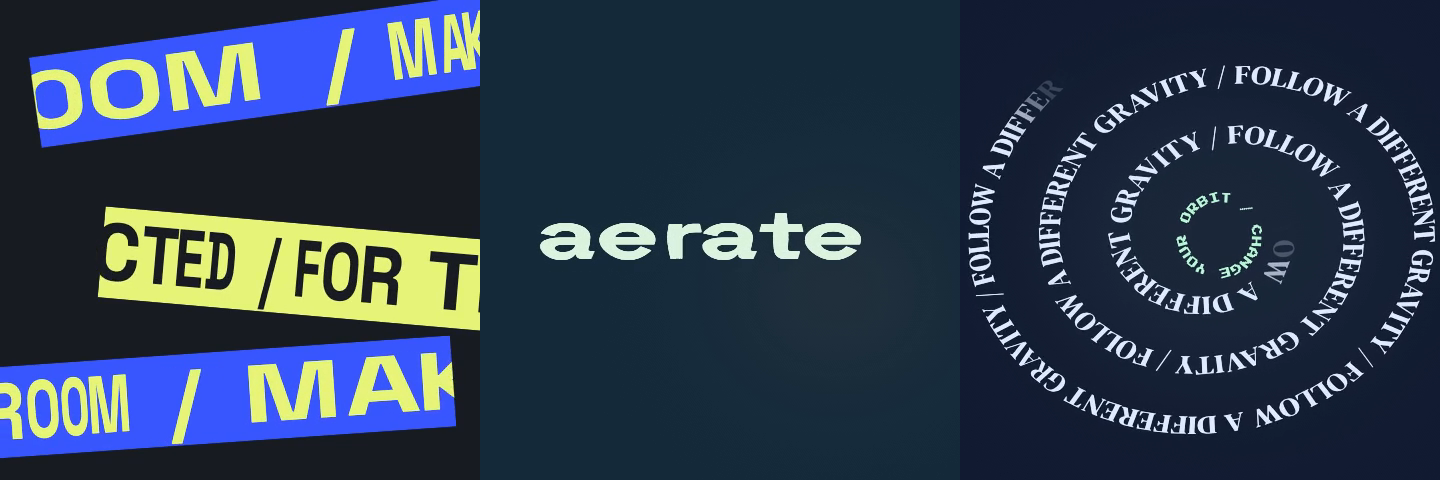
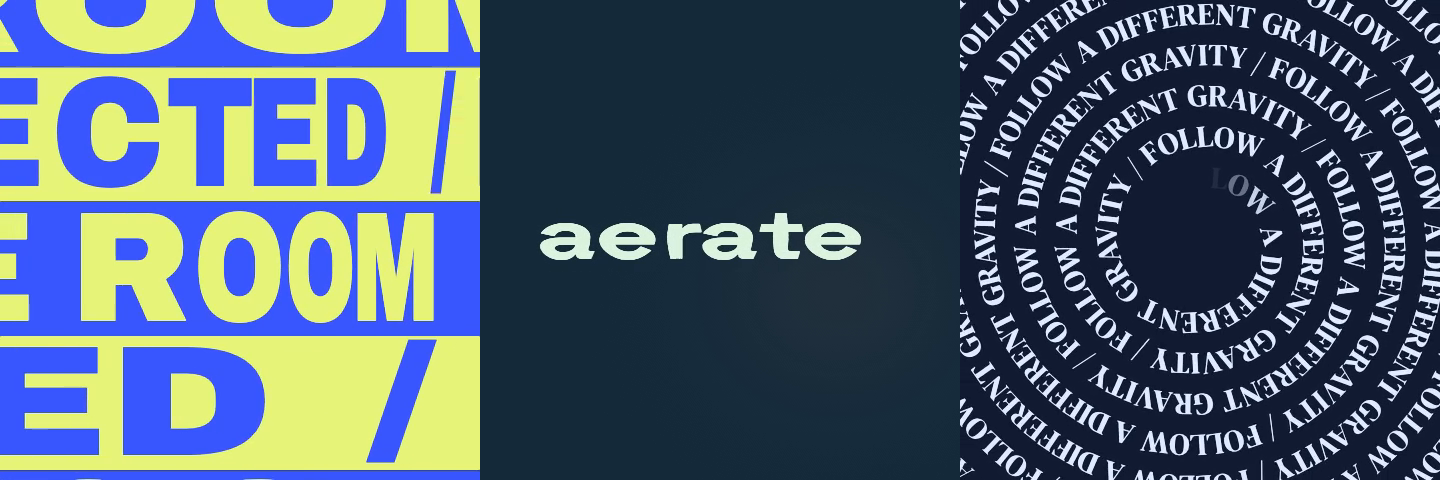
fix(templates): restore horizontal rows and a uniform spiral

diff --git a/templates/kinetic/stretch-row-repeater/scene.tsx b/templates/kinetic/stretch-row-repeater/scene.tsx
@@ -1,4 +1,4 @@
-// Three cut editorial ribbons, not an edge-to-edge typographic wallpaper.
+// Edge-to-edge horizontal rows with alternating direction and measured stretch.
 // Shared measured cell boundaries keep the traveling stretch monotonic.
 export default defineSpanScene({
   id: "stretch-row-repeater",
@@ -19,8 +19,8 @@ export default defineSpanScene({
     phase: numberVar(0),
   },
   computeds: {
-    rowHeight: computed.number(() => Math.min(vars.height * 0.19, vars.width * 0.27)),
-    fontSize: computed.number(() => computed.rowHeight * 0.88),
+    rowHeight: computed.number(() => Math.min(vars.height * 0.28, vars.width * 0.3)),
+    fontSize: computed.number(() => computed.rowHeight * 1.16),
     clock: computed.number(() => time.loop(Math.max(1000, Math.min(60000, vars.cycleMs)))),
     angle: computed.number(() => computed.clock * Math.PI * 4 + Math.max(-Math.PI * 2, Math.min(Math.PI * 2, vars.phase))),
     amplitude: computed.number(() => Math.max(0, Math.min(0.65, vars.stretch))),
@@ -28,33 +28,31 @@ export default defineSpanScene({
   render({ vars, computed }) {
     return <Scene width={vars.width} height={vars.height}>
       <Rect id="background" x={0} y={0} width={vars.width} height={vars.height} fill={vars.background} />
-      <Repeat items={collection.range(0, 3)} render={(row) => (
+      <Repeat items={collection.range(0, Math.ceil(vars.height / computed.rowHeight) + 1)} render={(row) => (
         <Group id={"ribbon-" + row}
-          x={vars.width * (row === 0 ? 0.06 : row === 1 ? 0.22 : -0.08)}
-          y={vars.height * (row === 0 ? 0.12 : row === 1 ? 0.43 : 0.77)}
-          width={vars.width * (row === 1 ? 0.92 : 1.02)} height={computed.rowHeight}
-          rotation={row === 0 ? -8 : row === 1 ? 5 : -4} pivotX={0} pivotY={0}
+          x={0} y={(row - 0.5) * computed.rowHeight}
+          width={vars.width} height={computed.rowHeight}
           clipLeft={0} clipRight={0} clipTop={0} clipBottom={0}>
-          <Rect id={"ribbon-paper-" + row} x={0} y={0} width={vars.width * (row === 1 ? 0.92 : 1.02)} height={computed.rowHeight} fill={row === 1 ? vars.lemon : vars.cobalt} />
-          <Repeat items={text.glyphs((row === 1 ? vars.alternateText : vars.text) + "  /  ", {
-            fontFamily: "Space Grotesk", fontWeight: 700,
-            fontSize: Math.min(vars.height * 0.19, vars.width * 0.27) * 0.88,
+          <Rect id={"ribbon-paper-" + row} x={0} y={0} width={vars.width} height={computed.rowHeight} fill={row % 2 === 1 ? vars.lemon : vars.cobalt} />
+          <Repeat items={text.glyphs((row % 2 === 1 ? vars.alternateText : vars.text) + "  /  ", {
+            fontFamily: "Archivo", fontWeight: 900,
+            fontSize: Math.min(vars.height * 0.28, vars.width * 0.3) * 1.16,
             letterSpacing: 0, repeat: 3, repeatToLength: vars.width * 4,
           })} render={(glyph) => (
             <Group id={"ribbon-" + row + "-cell-" + glyph.index}
-              x={glyph.offset + (row === 1 ? -computed.clock - 0.6 : computed.clock - 1.6) * glyph.cycleAdvance
+              x={glyph.offset + (row % 2 === 1 ? -computed.clock - 0.6 : computed.clock - 1.6) * glyph.cycleAdvance
                 + computed.amplitude * glyph.cycleAdvance / (Math.PI * 2)
-                * Math.sin(glyph.offset / glyph.cycleAdvance * Math.PI * 2 + computed.angle + row * 1.7)}
+                * Math.sin(glyph.offset / glyph.cycleAdvance * Math.PI * 2 + computed.angle + row * 1.45)}
               y={0} width={glyph.advance} height={computed.rowHeight}>
               <Text id={"ribbon-" + row + "-glyph-" + glyph.index} text={glyph.text}
                 x={-glyph.bearingX} y={0}
                 width={Math.max(glyph.advance, glyph.inkWidth + Math.abs(glyph.bearingX)) + computed.fontSize * 0.2}
                 height={computed.rowHeight} size={computed.fontSize} lineHeight={computed.rowHeight}
                 fontFamily={glyph.fontFamily} weight={glyph.fontWeight}
-                color={row === 1 ? vars.background : vars.lemon}
+                color={row % 2 === 1 ? vars.cobalt : vars.lemon}
                 scaleX={Math.max(0.25, 1 + computed.amplitude * glyph.cycleAdvance / (Math.PI * 2 * Math.max(1, glyph.advance))
-                  * (Math.sin((glyph.offset + glyph.advance) / glyph.cycleAdvance * Math.PI * 2 + computed.angle + row * 1.7)
-                    - Math.sin(glyph.offset / glyph.cycleAdvance * Math.PI * 2 + computed.angle + row * 1.7)))}
+                  * (Math.sin((glyph.offset + glyph.advance) / glyph.cycleAdvance * Math.PI * 2 + computed.angle + row * 1.45)
+                    - Math.sin(glyph.offset / glyph.cycleAdvance * Math.PI * 2 + computed.angle + row * 1.45)))}
                 pivotX={0} pivotY={0} align="left" />
             </Group>
           )} />

diff --git a/templates/kinetic/spiral-type/scene.tsx b/templates/kinetic/spiral-type/scene.tsx
@@ -1,4 +1,4 @@
-// A finite luminous spiral floats off axis; its measured tangent remains readable.
+// A centered, uniformly spaced spiral fills the canvas without tilt or wobble.
 export default defineSpanScene({
   id: "kinetic-spiral-type",
   width: 960,
@@ -9,35 +9,30 @@ export default defineSpanScene({
     width: numberVar(960),
     height: numberVar(540),
     text: stringVar("FOLLOW A DIFFERENT GRAVITY"),
-    orbitText: stringVar("CHANGE YOUR ORBIT"),
     background: colorVar("#101A30"),
     ink: colorVar("#DDEAFF"),
-    light: colorVar("#B1F6CF"),
-    speed: numberVar(1),
+    speed: numberVar(0.85),
     innerRadius: numberVar(62),
-    pitch: numberVar(80),
+    pitch: numberVar(46),
   },
   computeds: {
     scale: computed.number(() => Math.min(vars.width, vars.height) / 540),
     fontSize: computed.number(() => 34 * computed.scale),
     speed: computed.number(() => math.clamp(vars.speed, -3, 3)),
     inner: computed.number(() => math.clamp(vars.innerRadius, 54, 96) * computed.scale),
-    pitch: computed.number(() => math.clamp(vars.pitch, 64, 110) * computed.scale),
+    pitch: computed.number(() => math.clamp(vars.pitch, 40, 110) * computed.scale),
     b: computed.number(() => computed.pitch / (2 * Math.PI)),
-    outer: computed.number(() => Math.min(vars.width, vars.height) * 0.51),
+    outer: computed.number(() => Math.sqrt(vars.width * vars.width + vars.height * vars.height) / 2 + computed.fontSize * 4),
     coverage: computed.number(() => (computed.outer * computed.outer - computed.inner * computed.inner) / (2 * computed.b)),
-    rotation: computed.number(() => -24 + 13 * Math.sin(time.ms / 9000 * Math.PI * 2 * computed.speed)),
     drift: computed.number(() => time.ms * 0.025 * computed.scale * computed.speed),
-    centerX: computed.number(() => vars.width * (vars.width > vars.height ? 0.61 : 0.54)),
-    centerY: computed.number(() => vars.height * (vars.width > vars.height ? 0.53 : 0.49)),
+    centerX: computed.number(() => vars.width * 0.5),
+    centerY: computed.number(() => vars.height * 0.5),
   },
   render({ vars, computed }) {
     return <Scene width={vars.width} height={vars.height}>
       <Rect id="background" x={0} y={0} width={vars.width} height={vars.height} fill={vars.background} />
-      <Ellipse id="orbital-atmosphere" x={computed.centerX - computed.outer * 0.77} y={computed.centerY - computed.outer * 0.65}
-        width={computed.outer * 1.54} height={computed.outer * 1.3} fill={vars.light} opacity={0.065} blur={computed.outer * 0.3} />
-      <Group id="tilted-orbit" x={computed.centerX} y={computed.centerY} width={0} height={0}
-        pivotX={0} pivotY={0} rotation={computed.rotation} scaleY={0.84}>
+      <Group id="spiral-field" x={computed.centerX} y={computed.centerY} width={0} height={0}
+        pivotX={0} pivotY={0} rotation={-90}>
         <Repeat items={[text.glyphs(vars.text + " / ", {fontFamily: "DM Serif Display", fontWeight: 400, fontSize: computed.fontSize, letterSpacing: 0.5 * computed.scale})[0]]} render={(phrase) => (
           <Repeat items={text.glyphs(vars.text + " / ", {
             fontFamily: "DM Serif Display", fontWeight: 400, fontSize: computed.fontSize,
@@ -58,18 +53,6 @@ export default defineSpanScene({
           )} />
         )} />
       </Group>
-      <Repeat items={text.glyphs(vars.orbitText + " / ", {fontFamily: "Press Start 2P", fontWeight: 400, fontSize: 12 * computed.scale, repeat: 1})} render={(glyph) => (
-        <Group id={"inner-orbit-cell-" + glyph.index}
-          x={computed.centerX + computed.inner * 0.61 * Math.cos(glyph.offset / Math.max(glyph.totalAdvance, 1) * Math.PI * 2 - time.ms * 0.00012 * computed.speed)}
-          y={computed.centerY + computed.inner * 0.61 * Math.sin(glyph.offset / Math.max(glyph.totalAdvance, 1) * Math.PI * 2 - time.ms * 0.00012 * computed.speed)}
-          width={0} height={0} pivotX={0} pivotY={0}
-          rotation={glyph.offset / Math.max(glyph.totalAdvance, 1) * 360 - time.ms * 0.00012 * computed.speed * 180 / Math.PI + 90}>
-          <Text id={"inner-orbit-glyph-" + glyph.index} text={glyph.text} x={0} y={-9 * computed.scale}
-            width={glyph.advance + 8 * computed.scale} height={18 * computed.scale}
-            size={Math.min(12 * computed.scale, computed.inner * 0.61 * Math.PI * 2 / Math.max(1, glyph.totalAdvance) * 12 * computed.scale)}
-            lineHeight={12 * computed.scale} fontFamily={glyph.fontFamily} weight={glyph.fontWeight} color={vars.light} />
-        </Group>
-      )} />
     </Scene>;
   },
 });

diff --git a/templates/kinetic/spiral-type/README.md b/templates/kinetic/spiral-type/README.md
@@ -1,6 +1,6 @@
 # Spiral type
 
-An off-axis luminous text orbit hangs in midnight blue. Large **DM Serif Display** glyphs follow a finite, tilted Archimedean spiral; a compact **Press Start 2P** monospaced inner orbit turns against it. The sparse composition leaves deliberate negative space rather than covering every corner with a repeating pattern. Both faces are bundled.
+A centered, full-frame spiral of **DM Serif Display** lettering in ice blue on midnight navy. Every glyph follows the same circular spiral with constant turn spacing and a uniform type size; the text drifts along the path at a measured pace.
 
 ```sh
 mont templates preview spiral-type
@@ -9,15 +9,15 @@ mont templates preview spiral-type
 Save editable inputs as `settings.json`:
 
 ```json
-{"text":"FOLLOW YOUR CURIOSITY","orbitText":"TAKE THE LONG WAY","width":1080,"height":1920,"speed":0.8}
+{"text":"FOLLOW YOUR CURIOSITY","width":1080,"height":1920,"speed":0.8}
 ```
 
 ```sh
 mont templates preview spiral-type --inputs settings.json
 ```
 
-Defaults: **960 × 540**, **24 fps**, **9 seconds**; `text: "FOLLOW A DIFFERENT GRAVITY"`, `orbitText: "CHANGE YOUR ORBIT"`, `background: "#101A30"`, `ink: "#DDEAFF"`, `light: "#B1F6CF"`, `speed: 1`, `innerRadius: 62`, `pitch: 80`. Radius and pitch are reference pixels at a 540-pixel short edge and scale with the canvas. Negative `speed` reverses motion; zero freezes it.
+Defaults: **960 × 540**, **24 fps**, **9 seconds**; `text: "FOLLOW A DIFFERENT GRAVITY"`, `background: "#101A30"`, `ink: "#DDEAFF"`, `speed: 0.85`, `innerRadius: 62`, `pitch: 46`. Radius and pitch are reference pixels at a 540-pixel short edge and scale with the canvas. Negative `speed` reverses motion; zero freezes it.
 
-Use 1920 × 1080 for 16:9, 1080 × 1920 for 9:16, or 1080 × 1080 for square. Main text repeats by measured advance, including spaces and Unicode clusters; the smaller orbit fits its copy around one revolution. Replacement glyphs outside the bundled faces may need additional catalog fonts.
+Use 1920 × 1080 for 16:9, 1080 × 1920 for 9:16, or 1080 × 1080 for square. The spiral fills the frame, including the corners. Text repeats by measured advance, including spaces and Unicode clusters. DM Serif Display 400 is bundled; replacement glyphs may need additional catalog fonts.
 
-Native scene only. Rotation follows the mathematical tangent, with soft entry/exit along the finite spiral. Review **0, 2200, 4500, and 7600 ms** for drift, changing tilt, and the counter-rotating inner text. The 9-second composition is deterministic under arbitrary seeking, not a seamless loop. See [template.mont](template.mont) and [scene.tsx](scene.tsx).
+Native scene only. Rotation follows the mathematical tangent, with soft entry/exit along the finite spiral. Review **0, 2200, 4500, and 7600 ms** for uniform shape and continuous travel. The 9-second composition is deterministic under arbitrary seeking, not a seamless loop. See [template.mont](template.mont) and [scene.tsx](scene.tsx).

diff --git a/templates/kinetic/stretch-row-repeater/README.md b/templates/kinetic/stretch-row-repeater/README.md
@@ -1,6 +1,6 @@
 # Stretch row repeater
 
-Three asymmetric editorial ribbons cross a charcoal field. Space Grotesk lettering moves in opposing directions while a measured, continuous wave compresses and releases individual glyph cells. The cut bands, changing angles, and open negative space are part of the composition—not a full-frame text wallpaper.
+Full-frame horizontal rows alternate cobalt and citron. Archivo 900 lettering travels in opposing directions while a measured wave stretches and releases individual glyph cells, with offset timing between rows.
 
 ```sh
 mont templates preview stretch-row-repeater
@@ -16,8 +16,8 @@ Save editable inputs as `settings.json`:
 mont templates preview stretch-row-repeater --inputs settings.json
 ```
 
-Defaults: **960 × 540**, **24 fps**, **12 seconds**; `text: "MAKE ROOM"`, `alternateText: "FOR THE UNEXPECTED"`, `background: "#171B22"`, `cobalt: "#3857FF"`, `lemon: "#E7F478"`, `stretch: 0.48`, `cycleMs: 12000`, `phase: 0` (radians). `stretch: 0` disables the compression wave without stopping the ribbon travel.
+Defaults: **960 × 540**, **24 fps**, **12 seconds**; `text: "MAKE ROOM"`, `alternateText: "FOR THE UNEXPECTED"`, `background: "#171B22"`, `cobalt: "#3857FF"`, `lemon: "#E7F478"`, `stretch: 0.48`, `cycleMs: 12000`, `phase: 0` (radians). `stretch: 0` disables the compression wave without stopping the row travel.
 
-Use 1920 × 1080 for 16:9, 1080 × 1920 for 9:16, or 1080 × 1080 for square. Ribbon dimensions respond to the canvas; measured advances preserve spaces and Unicode clusters with both short and long copy. Space Grotesk 700 is bundled; fallback glyphs may need additional catalog fonts.
+Use 1920 × 1080 for 16:9, 1080 × 1920 for 9:16, or 1080 × 1080 for square. Horizontal rows fill the canvas at every aspect ratio; measured advances preserve spaces and Unicode clusters with both short and long copy. Archivo 900 is bundled; fallback glyphs may need additional catalog fonts.
 
 Native scene only: no HTML or browser animation runtime. Review motion at **0, 1800, 4200, and 7800 ms**; the default cycle restarts at **12000 ms**. All animation is a deterministic function of scene time. Inputs and bindings live in [template.mont](template.mont); composition lives in [scene.tsx](scene.tsx).
